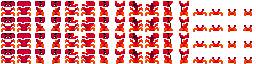
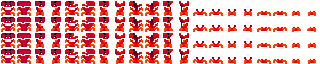
Extend crawler sprite

diff --git a/seven-circles/src/scripts/helper/sprites/crawler.js b/seven-circles/src/scripts/helper/sprites/crawler.js
@@ -35,17 +35,21 @@ function Addsprite(world,x,y,direction="down") {
         });
     };
 
+    const installShortHitbox = target => {
+        target.hitBox = {
+            x: target.x + 0.125,
+            y: target.y + 0.6,
+            width: 0.75,
+            height: 0.4
+        };
+    };
+
     const getDummyLegs = sourceSprite => {
         const dummySprite = new AnimatedSprite(image,sourceSprite.x,sourceSprite.y);
-        dummySprite.subtexture = 3;
+        dummySprite.subtexture = 4;
         dummySprite.direction = sourceSprite.direction;
         dummySprite.collides = true;
-        dummySprite.hitBox = {
-            x: dummySprite.x + 0.125,
-            y: dummySprite.y + 0.5,
-            width: 0.75,
-            height: 0.5
-        };
+        installShortHitbox(dummySprite);
         return dummySprite;
     };
 
@@ -69,8 +73,7 @@ function Addsprite(world,x,y,direction="down") {
 
     sprite.shot = () => {
         let newSubtexture = sprite.subtexture + 1;
-        const lastSubtexture = sprite.subtextureCount - 1;
-        if(newSubtexture > lastSubtexture) {
+        if(newSubtexture === 4) {
             world.spriteLayer.remove(sprite.ID);
             sprite.alive = false;
             sprite.shot = null;
